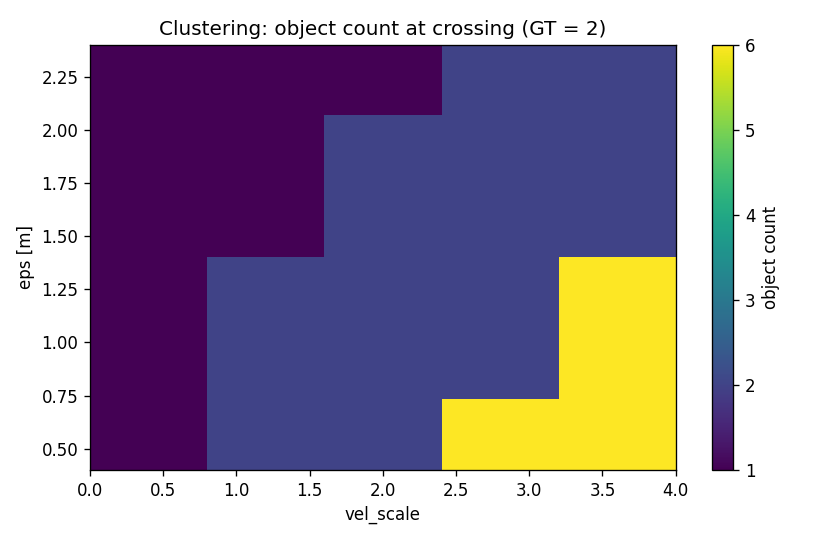
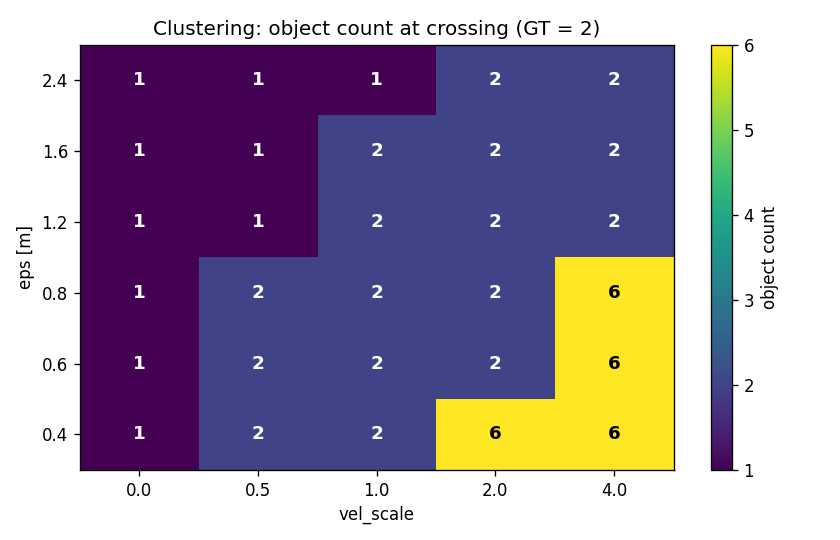
feat: add result of angel-resolution-vs-snr

diff --git a/evaluation/mimo_doa_eval.py b/evaluation/mimo_doa_eval.py
@@ -76,6 +76,20 @@ def min_resolvable_separation(n_elem, seps_deg, snr_db=20.0, methods=METHODS,
     return out
 
 
+def resolution_vs_snr(n_elem, seps_deg, snr_list, methods=METHODS, n_trials=40,
+                      seed=0):
+    """Min resolvable separation (deg) per method at each SNR.
+    Returns (snr_list, {method: [sep|nan per snr]})."""
+    out = {m: [] for m in methods}
+    for snr in snr_list:
+        res = min_resolvable_separation(n_elem, seps_deg, snr_db=snr,
+                                        methods=methods, n_trials=n_trials,
+                                        seed=seed)
+        for m in methods:
+            out[m].append(res[m])
+    return list(snr_list), out
+
+
 def main():
     snr_list = [0, 5, 10, 15, 20, 25, 30]
     # Off-grid source (12.4°) so the grid methods show their real quantization
@@ -90,14 +104,15 @@ def main():
     out1 = ROOT / "report/mimo_evaluation/mimo_doa_accuracy.png"
     fig.tight_layout(); fig.savefig(out1, dpi=120); print("wrote", out1)
 
-    seps = [1, 2, 3, 4, 5, 6, 8, 10, 12]
-    res = min_resolvable_separation(12, seps, snr_db=20.0, n_trials=40)
+    seps = [1, 2, 3, 4, 5, 6, 8, 10, 12, 14]
+    snr_r, res = resolution_vs_snr(12, seps, [0, 5, 10, 15, 20, 25, 30],
+                                   n_trials=40)
     fig2, ax2 = plt.subplots(figsize=(7, 4.5))
-    names = list(res.keys())
-    ax2.bar(names, [res[m] for m in names])
-    ax2.set(ylabel="min resolvable separation [deg]",
-            title="Angular resolution at 20 dB (two equal sources)")
-    ax2.grid(alpha=0.3, axis="y")
+    for m in METHODS:
+        ax2.plot(snr_r, res[m], "o-", label=m)
+    ax2.set(xlabel="SNR [dB]", ylabel="min resolvable separation [deg]",
+            title="Angular resolution vs SNR (two equal sources, 12-elem ULA)")
+    ax2.grid(alpha=0.3); ax2.legend()
     out2 = ROOT / "report/mimo_evaluation/mimo_doa_resolution.png"
     fig2.tight_layout(); fig2.savefig(out2, dpi=120); print("wrote", out2)
 

diff --git a/evaluation/mimo_clustering_eval.py b/evaluation/mimo_clustering_eval.py
@@ -42,12 +42,23 @@ def main():
     eps_list = [0.4, 0.6, 0.8, 1.2, 1.6, 2.4]
     vel_list = [0.0, 0.5, 1.0, 2.0, 4.0]
     _, _, counts = object_count_grid(cfg, targets, 40, eps_list, vel_list)
+    counts = np.array(counts)
+    # Categorical heatmap: the (eps, vel_scale) grid is non-uniform, so imshow+extent
+    # would misplace the ticks — instead plot on integer indices, label the ticks with
+    # the actual values, and annotate each cell with its object count.
     fig, ax = plt.subplots(figsize=(7, 4.5))
     im = ax.imshow(counts, origin="lower", aspect="auto", cmap="viridis",
-                   extent=[min(vel_list), max(vel_list),
-                           min(eps_list), max(eps_list)])
+                   vmin=1, vmax=6)
+    ax.set_xticks(range(len(vel_list))); ax.set_xticklabels(vel_list)
+    ax.set_yticks(range(len(eps_list))); ax.set_yticklabels(eps_list)
     ax.set(xlabel="vel_scale", ylabel="eps [m]",
            title="Clustering: object count at crossing (GT = 2)")
+    for i in range(len(eps_list)):
+        for j in range(len(vel_list)):
+            c = int(counts[i, j])
+            ax.text(j, i, str(c), ha="center", va="center",
+                    color="white" if c < 3 else "black", fontsize=11,
+                    fontweight="bold")
     fig.colorbar(im, ax=ax, label="object count")
     out = ROOT / "report/mimo_evaluation/mimo_clustering.png"
     fig.tight_layout(); fig.savefig(out, dpi=120); print("wrote", out)

diff --git a/evaluation/mimo_demo.py b/evaluation/mimo_demo.py
@@ -1,7 +1,7 @@
 """MIMO DoA + point-cloud demonstration figures (Part II / M2b).
 
 Produces two static figures:
-  report/mimo_processing_view.png  -- 3-panel: integrated RD (+CFAR) | DoA spectra
+  report/mimo_processing_frame_view.png  -- 3-panel: integrated RD (+CFAR) | DoA spectra
                                       (4 methods) | bird's-eye-view point cloud
   report/mimo_superresolution.png  -- two close coherent sources: Bartlett blurs,
                                       Capon/MUSIC/ESPRIT resolve.
@@ -34,7 +34,7 @@ def _db(p):
     return 10.0 * np.log10(p / np.max(p) + 1e-12)
 
 
-def processing_view(scenario: str, out: Path) -> None:
+def processing_frame_view(scenario: str, out: Path) -> None:
     cfg, targets = load_scenario(scenario)
     gen = FMCWBeatSignalGenerator(cfg)
     stack = gen.generate_frame_mimo(targets, frame_index=0)
@@ -132,8 +132,8 @@ def superresolution(out: Path, az_true=(-3.0, 3.0)) -> None:
 def main() -> None:
     rep = ROOT / "report" / "mimo_evaluation"
     # Two-target scene: shows the cloud collapsing to two separated objects.
-    processing_view(str(ROOT / "scenarios/scenario_mimo_2targets.json"),
-                    rep / "mimo_processing_view.png")
+    processing_frame_view(str(ROOT / "scenarios/scenario_mimo_2targets.json"),
+                    rep / "mimo_processing_frame_view.png")
     superresolution(rep / "mimo_superresolution.png")
 
 

diff --git a/evaluation/mimo_tracking_eval.py b/evaluation/mimo_tracking_eval.py
@@ -69,6 +69,7 @@ def main():
     _bev(res["gt"], res["history"], res["assoc"],
          OUT / "mimo_tracking_turn.png",
          f"Tracking a turn (RMSE {res['rmse_m']:.2f} m)")
+    
     # multi-target crossing
     cfg2, tg2 = load_scenario(str(ROOT / "scenarios/scenario_mimo_crossing.json"))
     gen2 = FMCWBeatSignalGenerator(cfg2)

diff --git a/report/mimo_evaluation/mimo_evaluation_report.md b/report/mimo_evaluation/mimo_evaluation_report.md
@@ -1,0 +1,209 @@
+# MIMO Evaluation Report
+
+**Date:** 2026-06-23
+**Pipeline:** TDM-MIMO →
+per-channel range-Doppler FFT → non-coherent integration → 2-D CFAR → DoA at detected cells → Cartesian point cloud → DBSCAN clustering → tracking.
+
+---
+
+## 1. Introduction
+Extend the SISO to MIMO: 3 TX × 4 RX = 12-element λ/2 virtual ULA. The pipeline under MIMO overlaps partly with the pipeline under SISO, here only introduce/evaluate the steps which are changed or newly added. four evaluation facets — detection, angle (DoA), clustering, tracking. 
+
+- **non-coherent integration (NCI):** NCI adds SNR and changes the noise *distribution* from
+  exponential to Gamma(V). This is handled by recalibrating the CFAR threshold α
+  for the integration count.
+  So we fix one CFAR default (CA, real-time) and *verify* behaviour rather than compare.
+- **DoA estimation:** Bartlett / Capon / MUSIC / ESPRIT
+- **Clustering:** `peak`/`cc` are grid/image operations that do not
+  apply to a scattered Cartesian point cloud; only DBSCAN remains.
+- **2D tracking:** CTRV-EKF (CTRV: Constant Turn Rate and Velocity)
+
+Real-time streaming pipeline see `streaming_publisher.py` and `streaming_subscriber_pointcloud.py`.
+
+
+## 2. Signal model
+
+The generator is the existing FMCW model extended to MIMO in **one class**: the
+per-target range/Doppler physics is shared, and a MIMO entry point
+(`generate_frame_mimo`) adds a **channel axis** plus a per-element **steering phase**.
+For the TDM 3 TX × 4 RX array the 12 transmit–receive pairs form a 12-element λ/2
+**virtual ULA**; element *e* at position `pos_e` (in wavelengths) carries the phase
+`exp(j2π·pos_e·sin θ)` for the target azimuth θ. The TX fire **sequentially** (TDM), so
+each TX is seen every `n_tx` chirps — which divides the unambiguous velocity by `n_tx`
+and adds a Doppler-dependent phase across TX that the DoA stage compensates (using the
+cell's measured Doppler bin) before angle estimation.
+
+**Within-frame azimuth assumption.** The steering phase uses a single, **frame-start**
+azimuth held **constant across all chirps and TX within a frame**; it updates only
+frame-to-frame. So within-frame angular migration is neglected — the standard
+**constant-DOA-per-CPI** assumption, consistent with the existing **stop-and-hop** model
+(constant velocity within a frame for range/Doppler). It is accurate because a frame is
+short (here 64 chirps × 50 µs ≈ 3 ms), over which a target's bearing changes negligibly.
+
+**Per-element noise — a dedicated RNG stream.** MIMO draws thermal noise
+**independently per virtual element**, from its own RNG stream (`element_noise_seed`,
+default 33333) — a fifth stream decoupled from the thermal-noise (`seed`), Swerling
+fluctuation, clutter, and extent streams. It is **frame-addressed**: each element's noise
+is keyed by `(element_noise_seed, frame_index, element_index)`, so it is **pure** —
+reproducible regardless of the order frames/elements are generated, unlike the legacy
+call-ordered single-channel draw. The single-channel path (`generate_frame`, `V = 1`)
+keeps its original call-ordered draw **unchanged**, so prior single-channel reports
+reproduce byte-for-byte; the MIMO path uses the new stream, so adding channels never
+perturbs the `V = 1` result.
+
+## 3. Detection
+### 3.1 Non-coherent integration gain
+
+Object Pd vs per-channel SNR on `scenario_mimo`, single channel (V=1) vs the
+12-channel non-coherent integration. A detection counts only if a CFAR cell falls near
+the ground-truth cell in **both** range and Doppler (the 2-D match rejects scattered
+false alarms that would otherwise inflate Pd at low SNR), and the GT cell is recomputed
+per frame because the target moves.
+
+![detection](mimo_detection.png)
+
+CMD: `python -m evaluation.mimo_detection_eval`
+
+Around the crossover the single channel has already fallen to ~0.65 (and to 0 by noise
+power 0.2) where the 12-channel integration still detects at ~0.9. The integrated curve
+detects reliably ~**6 dB** further down in SNR than the single
+channel — the NCI processing gain (the ideal for V=12 is 10·log₁₀12 ≈ 10.8 dB; the
+realized shift is smaller because Pd is steep and the single channel already benefits
+from the FFT processing gain). The x-axis is *pre-FFT per-channel* input SNR, hence the
+negative dB values; what matters is the **shift** between the two curves.
+
+### 3.2 False alarm cluster in near-DC region
+
+Experiments show that in the later clustering stage, a persistent false-alarm cluster appears near the range-0 / high-velocity corner. It is
+**noise-driven**, not leakage or a target artifact: noise-only frames (no targets, and
+`leakage_amplitude = 0`) reproduce the *identical* cluster. The cause is a **CFAR
+training-window edge effect** rooted in `dc_removal`: for a cell a few bins from DC, the
+training ring includes the DC bins that `dc_removal` zeros, and at the range-0 boundary
+CFAR's edge replication (`mode="edge"`) copies those zeroed cells further into the
+window — both deflate the local noise estimate → locally-too-low threshold → elevated
+local Pfa.
+
+It is worse under MIMO because **non-coherent integration concentrates it**: integration
+averages away the *random* part of the noise estimate but not the *systematic* edge
+bias, and tightens the noise distribution (exponential → Gamma(V)), so the contiguous
+over-firing band fires together as one cluster. Measured near-DC false alarms rise from
+~0.33/frame (single channel, scattered) to ~1.27/frame (V=12, clustered), while the bulk
+false-alarm rate stays near nominal under the α-recalibration.
+
+**Fix (applied):** a min-range gate drops the first few range bins on the MIMO path; the single-channel reports keep their bin-0
+notch unchanged for byte-for-byte reproducibility.
+
+## 4. DoA estimation
+
+### 4.1 Accuracy vs SNR
+
+![DoA accuracy](mimo_doa_accuracy.png)
+
+CMD: `python -m evaluation.mimo_doa_eval`
+
+Azimuth RMSE vs SNR for a single source at 12.4° on the 12-element ULA (Monte-Carlo
+over array snapshots — the standard DoA benchmark, isolating angle estimation from
+detection). All four estimators improve with SNR and are comparable for a single
+source. The grid methods (Bartlett/Capon/MUSIC, 1° search grid) **floor at ~0.4°** —
+their quantization limit — while **ESPRIT** (search-free) keeps improving to ~0.04° at
+30 dB. *Super-resolution's advantage for a single source is small; its real payoff is
+resolution (§4.2).*
+
+### 4.2 Angular resolution
+
+![DoA resolution](mimo_doa_resolution.png)
+
+CMD: `python -m evaluation.mimo_doa_eval`
+
+Minimum separation at which two equal sources are resolved in ≥80 % of trials, swept vs
+SNR. **Bartlett is flat at ~10°** — the beamwidth (Rayleigh) limit, independent of SNR.
+The super-resolution estimators (Capon / MUSIC / ESPRIT) **resolve closer as SNR rises**,
+crossing below Bartlett around 5–10 dB and reaching 2–5° by 30 dB; breaking the beamwidth
+limit is exactly the reason to run them. The honest flip side: **at very low SNR (0 dB)
+they are no better (≈14°) than Bartlett** — super-resolution is not free, it needs SNR.
+
+For reference, at 20 dB the thresholds are Bartlett 10°, Capon 5°, MUSIC 4°, ESPRIT 3°
+(≈2.5–3× closer than Bartlett).
+
+## 5. Clustering — DBSCAN
+
+DBSCAN clustering on the point cloud. Object count vs (`eps_m`, `vel_scale`) on the crossing frame of
+`scenario_mimo_crossing`, where the two targets share a position but have opposite
+radial velocity (ground truth = 2 objects): 
+![clustering](mimo_clustering.png)
+
+CMD: `python -m evaluation.mimo_clustering_eval`
+
+- **`vel_scale = 0` (spatial only) always merges to 1** — co-located targets are
+  inseparable without the velocity feature.
+- **`vel_scale > 0` splits to the correct 2** over a broad band (eps ≈ 0.6–1.6 m,
+  vel_scale ≈ 1–2).
+- **Too-large `vel_scale`** (≈4) over-splits each target's own velocity spread into
+  several objects; **too-large `eps`** (≈2.4 m) re-merges.
+
+This confirms the velocity feature is what separates same-position / different-speed
+objects, with a wide, forgiving sweet spot. (Caveat, from the M3 spec §7a: raw radial
+velocity over-splits a single *extended* object whose Doppler varies across its angular
+extent; moot for the point targets here.)
+
+## 6. Tracking — CTRV-EKF end-to-end
+
+### 6.1 Maneuvering (turn) target
+
+![tracking a turn](mimo_tracking_turn.png)
+
+CMD: `python -m evaluation.mimo_tracking_eval`
+
+`scenario_mimo_turn` — a `ct_xy` target turning at 0.6 rad/s — tracked end-to-end
+through the full chain. **Position RMSE = 0.21 m** with a **single stable track ID**
+through the maneuver. The track follows the curved trajectory closely after a brief
+spawn transient.
+
+**Honest finding — turn rate ω is only weakly observable.** Although position tracking
+is excellent, the estimated turn rate does **not** converge to the true 0.03 rad/frame
+end-to-end: it *wanders* with the DoA noise (≈0.09 at 35 frames, 0.02 at 50, −0.19 at
+70). ω is not directly measured (its measurement-Jacobian column is zero) — it is
+inferred only from how the heading evolves, and a single target's noisy (r, θ, ṙ)
+stream constrains it weakly. The M4 unit test converges ω to within 0.025 because it
+feeds *noiseless* synthetic measurements; the gap here is precisely the azimuth-noise
+sensitivity. Pinning ω down would need lower azimuth noise, a longer stable-geometry
+arc, or multiple scatterers (extended-object tracking, a future direction).
+
+*Methodology note:* the scenario uses the same CTRV kinematics as the tracker's motion
+model, so this validates "tracks a maneuver under sensor noise," **not** motion-model
+robustness (CTRA-truth-vs-CTRV-filter mismatch is recorded for later).
+
+### 6.2 Crossing targets
+
+![tracking crossing](mimo_tracking_crossing.png)
+
+CMD: `python -m evaluation.mimo_tracking_eval`
+
+`scenario_mimo_crossing` — two constant-velocity targets crossing at the origin —
+tracked over 80 frames; both confirmed-track trajectories follow their ground truth
+through the crossing.
+
+## 7. Summary
+
+| Facet | Result |
+|---|---|
+| Detection | NCI gives ~6 dB Pd improvement (V=12 vs single channel); Pfa nominal post-recalibration |
+| DoA accuracy | all comparable for one source; ESPRIT reaches ~0.04° at 30 dB vs ~0.4° grid floor |
+| DoA resolution | ESPRIT 3° < MUSIC 4° < Capon 5° < Bartlett 10° |
+| Clustering | velocity feature splits co-located targets; correct count over eps 0.6–1.6 m, vel_scale 1–2 |
+| Tracking | turn tracked at 0.21 m RMSE with stable ID; ω weakly observable (does not converge end-to-end) |
+
+## 8. Artifact index
+
+| Artifact | Produced by |
+|---|---|
+| `mimo_processing_frame_view.png`, `mimo_superresolution.png` | `python -m evaluation.mimo_demo` |
+| `mimo_detection.png` | `python -m evaluation.mimo_detection_eval` |
+| `mimo_doa_accuracy.png`, `mimo_doa_resolution.png` | `python -m evaluation.mimo_doa_eval` |
+| `mimo_clustering.png` | `python -m evaluation.mimo_clustering_eval` |
+| `mimo_tracking_turn.png`, `mimo_tracking_crossing.png` | `python -m evaluation.mimo_tracking_eval` |
+| offline runner + Cartesian scorers | `evaluation/mimo_pipeline.py` |
+| scenarios | `scenarios/scenario_mimo.json`, `scenario_mimo_2targets.json`, `scenario_mimo_crossing.json`, `scenario_mimo_turn.json` |
+| tests | `tests/test_mimo_pipeline.py`, `tests/test_ct_xy.py` |
+
+Design: `docs/superpowers/specs/2026-06-23-m5-cartesian-evaluation-design.md`.
